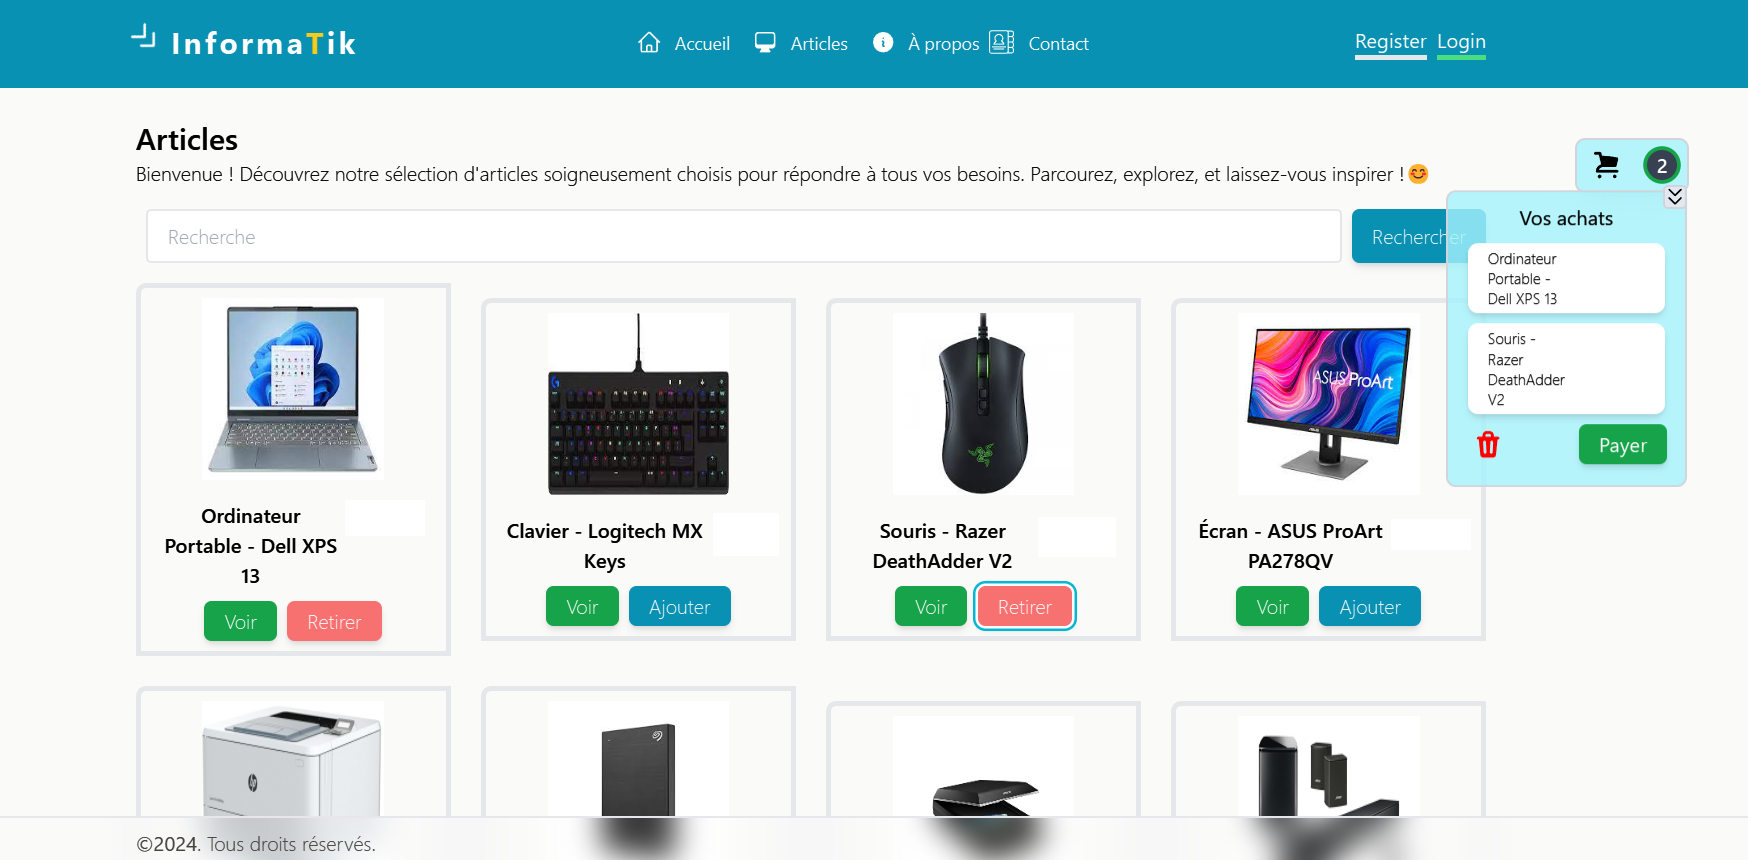
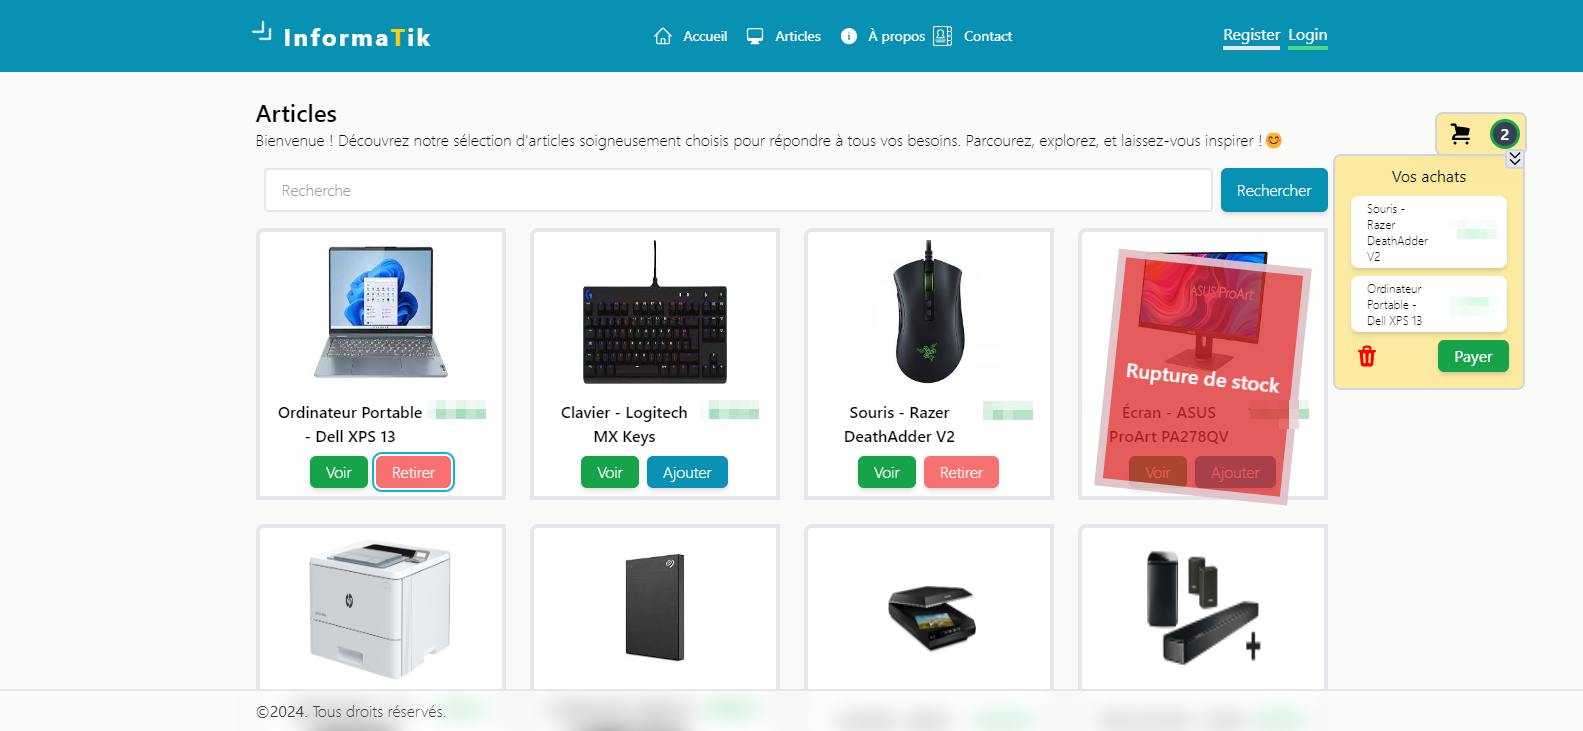
Update card color and card width&height

diff --git a/public/assets/css/app.css b/public/assets/css/app.css
@@ -1375,16 +1375,6 @@ video {
   background-color: rgb(255 255 255 / var(--tw-bg-opacity));
 }
 
-.bg-red-200 {
-  --tw-bg-opacity: 1;
-  background-color: rgb(254 202 202 / var(--tw-bg-opacity));
-}
-
-.bg-amber-400 {
-  --tw-bg-opacity: 1;
-  background-color: rgb(251 191 36 / var(--tw-bg-opacity));
-}
-
 .bg-gradient-to-bl {
   background-image: linear-gradient(to bottom left, var(--tw-gradient-stops));
 }
@@ -2044,6 +2034,10 @@ video {
   border-width: 4px;
 }
 
+.group:hover .group-hover\:border-2 {
+  border-width: 2px;
+}
+
 .group:hover .group-hover\:border-amber-400 {
   --tw-border-opacity: 1;
   border-color: rgb(251 191 36 / var(--tw-border-opacity));
@@ -2079,6 +2073,10 @@ video {
     display: none;
   }
 
+  .max-sm\:grid-cols-1 {
+    grid-template-columns: repeat(1, minmax(0, 1fr));
+  }
+
   .max-sm\:flex-row {
     flex-direction: row;
   }
@@ -2087,16 +2085,8 @@ video {
     flex-direction: column;
   }
 
-  .max-sm\:items-start {
-    align-items: flex-start;
-  }
-
   .max-sm\:items-center {
     align-items: center;
-  }
-
-  .max-sm\:justify-start {
-    justify-content: flex-start;
   }
 
   .max-sm\:justify-center {

diff --git a/app/views/ui/cardArticle.php b/app/views/ui/cardArticle.php
@@ -1,13 +1,13 @@
 <?php
 
 $classHoverGroup = " transition-all duration-200 ease-in-out ";
-if((int)$article["stock"] > 0){
-    $classHoverGroup .= " group-hover:scale-125 group-hover:rounded-lg group-hover:border-4 group-hover:border-amber-400 group-hover:translate-y-8";
+if ((int)$article["stock"] > 0) {
+    $classHoverGroup .= " group-hover:scale-125 group-hover:rounded-lg group-hover:border-2 group-hover:border-amber-400 group-hover:translate-y-8";
 }
 
 ?>
 
-<div class=" relative grid grid-cols-1 border-4 rounded-tl-lg  <?= (int)($article["stock"]) < 1 ? "bg-gray-200" : ""; ?> itemS " id="<?= $article["id"]; ?>">
+<div class=" relative w-full h-full grid grid-cols-1 border-4 rounded-tl-lg bg-white  <?= (int)($article["stock"]) < 1 ? "bg-gray-200" : ""; ?> itemS " id="<?= $article["id"]; ?>">
     <?php
     if ((int)($article["stock"]) < 1) { ?>
         <div class="absolute bottom-0 left-6 rotate-6 bg-red-600/75 border-slate-200/75 border-8 w-[80%] h-[90%] flex justify-center items-center z-30">

diff --git a/app/views/article/index.php b/app/views/article/index.php
@@ -15,7 +15,7 @@ if (isset($_POST["search"])) {
             <?php require_once __DIR__ . "/../components/search.php"; ?>
         </div>
         <div>
-            <div class="grid grid-cols-1 sm:grid-cols-2 lg:grid-cols-4 justify-items-center items-center gap-2 md:gap-4 lg:gap-6">
+            <div class="grid max-sm:grid-cols-1 sm:grid-cols-2 lg:grid-cols-4 mx-auto justify-items-center items-center gap-2 md:gap-4 lg:gap-6">
                 <?php
                 if (isset($_SESSION["message"])) {
                 } else {
